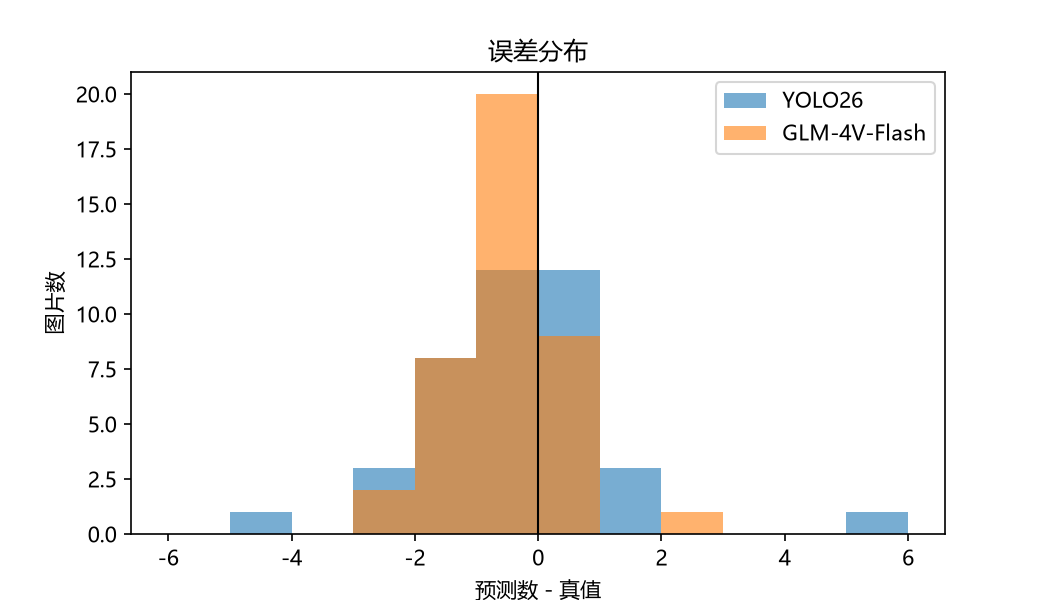
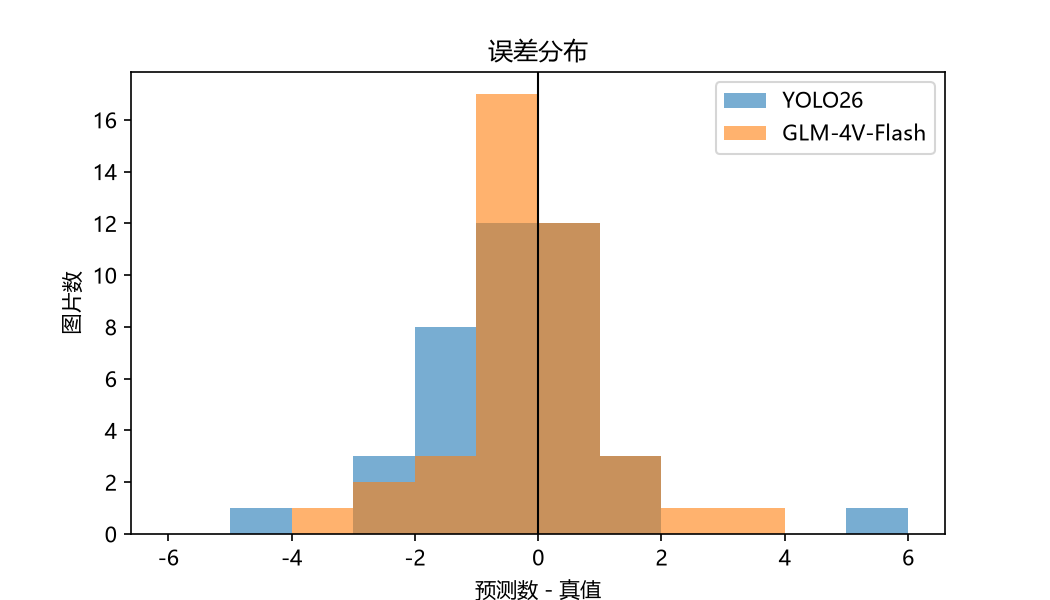
大模型方案升级为 GLM-5.3-FlashX，更新结果与报告

diff --git a/docs/对比实验报告.md b/docs/对比实验报告.md
@@ -21,7 +21,7 @@
 
 **大模型方案**
 
-- 智谱 GLM-4V-Flash
+- 智谱 GLM-5.3-FlashX
 - 固定提示词，要求只输出 JSON：各类数量 + 一句话场景描述
 - temperature 设为 0
 
@@ -39,16 +39,18 @@
 | 方案 | MAE | 完全一致 | 漏检 | 多检 | 单张耗时 |
 |---|---|---|---|---|---|
 | YOLO26 | 1.25 | 12/40 | 42 辆（24 张图） | 8 辆（4 张图） | 约 0.05s |
-| GLM-4V-Flash | 1.10 | 9/40 | 42 辆（30 张图） | 2 辆（1 张图） | 2.11s |
+| GLM-5.3-FlashX | 1.02 | 12/40 | 33 辆（23 张图） | 8 辆（5 张图） | 4.70s |
+
+大模型最开始用的是免费的 glm-4v-flash（MAE 1.10、完全一致 9/40），换成 glm-5.3-flashx 后 MAE 降到 1.02、完全一致 12/40。
 
 每类误差（MAE）：
 
-| 类别 | YOLO26 | GLM-4V-Flash |
+| 类别 | YOLO26 | GLM-5.3-FlashX |
 |---|---|---|
-| cars | 0.65 | 0.75 |
-| buses | 0.23 | 0.12 |
+| cars | 0.65 | 0.65 |
+| buses | 0.23 | 0.10 |
 | trucks | 0.45 | 0.40 |
-| motorcycles | 0.33 | 0.23 |
+| motorcycles | 0.33 | 0.17 |
 
 图表在 `figures/` 下：
 
@@ -59,17 +61,17 @@
 
 ## 6. 分析
 
-1. **准确率接近**：VLM 的 MAE 略低（1.10 对 1.25），但 YOLO 完全数对的图片更多（12 对 9）。没有哪一方明显更好。
-2. **漏检方式不同**：两者漏检总数都是 42 辆，但 YOLO 集中在 24 张图上，VLM 分散在 30 张图上。YOLO 是少数图漏得厉害，VLM 是普遍少算一点。
-3. **多检**：YOLO 多检出 8 辆车，主要来自遮挡和背景误判；VLM 只多检 2 辆，偏向保守。
-4. **类别差异**：公交车和摩托车的误差两边都低；小汽车误差最高，因为数量多、目标小、容易重叠。
-5. **速度与成本**：YOLO 单张约 0.05 秒，可以离线跑；VLM 每张约 2.1 秒，需要联网，每张约 540 tokens。
+1. **准确率**：VLM 的 MAE 更低（1.02 对 1.25），完全数对都是 12 张，VLM 略占优。
+2. **漏检**：YOLO 漏检 42 辆、集中在 24 张图；VLM 漏检 33 辆、涉及 23 张图。VLM 漏得更少，YOLO 在少数图上漏得比较厉害。
+3. **多检**：两边都多检 8 辆。YOLO 主要来自遮挡和背景误判，VLM 也有少量把物体误认成车的情况。
+4. **类别差异**：小汽车误差最高（两边都是 0.65）；公交车和摩托车 VLM 表现更好（0.10、0.17），YOLO 分别是 0.23、0.33。
+5. **速度与成本**：YOLO 单张约 0.05 秒，可以离线跑；VLM 每张约 4.7 秒，需要联网，每张约 890 tokens。
 
 ## 7. 结论
 
 - 要快、要位置框、要离线部署：用 YOLO + SAM。
 - 要描述场景、用自然语言回答：用多模态大模型。
-- 单纯比计数准确率，两者接近，没有明显赢家。
+- 单纯比计数准确率，VLM 略准（1.02 对 1.25），但 YOLO 快约 90 倍。
 
 ## 8. OpenCV 的使用
 
@@ -100,6 +102,6 @@
 ## 10. 局限
 
 - 测试集只有 40 张，样本偏少。
-- 大模型只试了一个模型和一个提示词，没有比较其他模型或提示词。
+- 大模型只试了两个版本（glm-4v-flash、glm-5.3-flashx），提示词只用一个。
 - 两种方案都是现成模型直接推理，没有做微调。
 - 同一张图多次调用大模型，结果可能不完全一致，本次没有做重复实验。

diff --git a/README.md b/README.md
@@ -3,7 +3,7 @@
 同一张道路/街景图片，用两套方案清点车辆并对比：
 
 - **传统方案**：YOLO26 检测车辆，可选 SAM 分割
-- **大模型方案**：智谱 GLM-4V-Flash 清点并描述场景
+- **大模型方案**：智谱 GLM-5.3-FlashX 清点并描述场景
 
 ## 数据
 
@@ -27,10 +27,13 @@ stage2/
 │   ├── segment.py                # SAM 分割
 │   ├── evaluate.py               # 对比指标
 │   ├── compare.py                # 并排对比图
+│   ├── figures.py                # 生成图表
 │   ├── augment.py                # OpenCV 增强演示
 ├── scripts/
-│   ├── prepare_coco.py           # 准备数据
-│   └── demo_yolo_sam.py          # 检测 + 分割演示
+│   ├── prepare_coco.py           # 准备测试数据
+│   └── prepare_detection_dataset.py  # 准备微调数据集
+├── kaggle/
+│   └── vehicle_train.py          # Kaggle 微调脚本
 ├── data/
 │   ├── test_images/              # 测试图，不入库
 │   └── ground_truth.csv
@@ -76,7 +79,7 @@ python -m src.compare
 ```
 VLM_API_KEY=...
 VLM_BASE_URL=https://open.bigmodel.cn/api/paas/v4
-VLM_MODEL=glm-4v-flash
+VLM_MODEL=glm-5.3-flashx
 ```
 
 ## 结果
@@ -84,9 +87,9 @@ VLM_MODEL=glm-4v-flash
 | 方案 | MAE | 完全一致 | 单张耗时 | 成本 |
 |---|---|---|---|---|
 | YOLO26 | 1.25 | 12/40 | 约 0.05s | 0 |
-| GLM-4V-Flash | 1.10 | 9/40 | 2.11s | 537 tokens/张 |
+| GLM-5.3-FlashX | 1.02 | 12/40 | 4.70s | 892 tokens/张 |
 
-YOLO 快、能给出位置框；大模型平均误差略低，能描述场景。对比图见 `figures/comparison_samples.png`，详细分析见 `docs/对比实验报告.md`。
+YOLO 快、能给出位置框；大模型平均误差更低、能描述场景。对比图见 `figures/comparison_samples.png`，详细分析见 `docs/对比实验报告.md`。
 
 另外做了一组微调实验（240 张训练 / 60 张验证，30 epoch），详见报告第 9 节。
 
@@ -98,4 +101,4 @@ YOLO 快、能给出位置框；大模型平均误差略低，能描述场景。
 | PyTorch | torch 张量推理；用预训练 YOLO26 做微调（见报告第 9 节） |
 | YOLO | 车辆检测 |
 | SAM | 框提示分割 |
-| Transformer / 多模态大模型 | GLM-4V 调用与 JSON 输出 |
+| Transformer / 多模态大模型 | GLM-5.3-FlashX 调用与 JSON 输出 |
